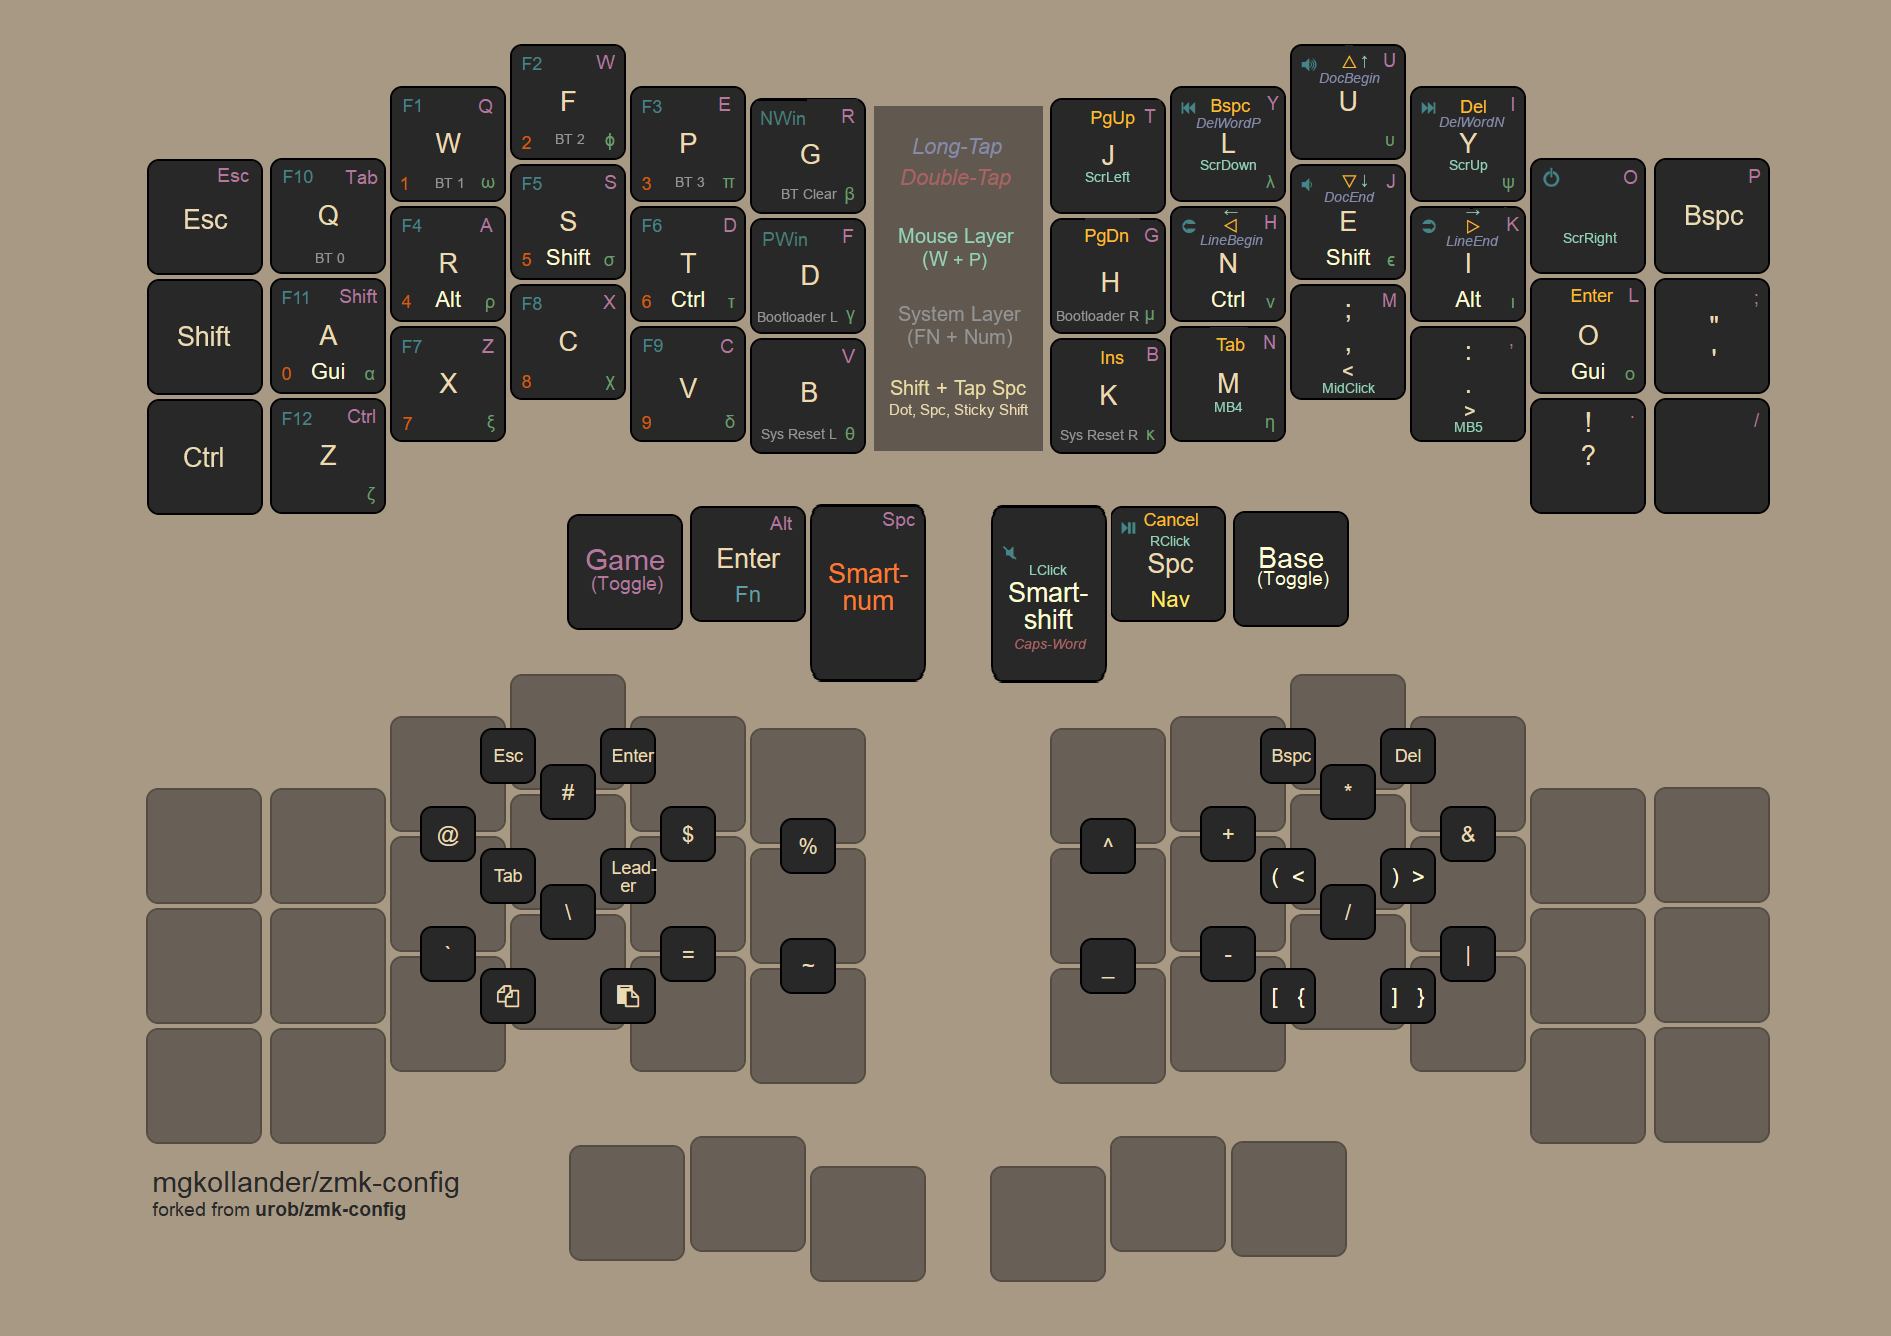
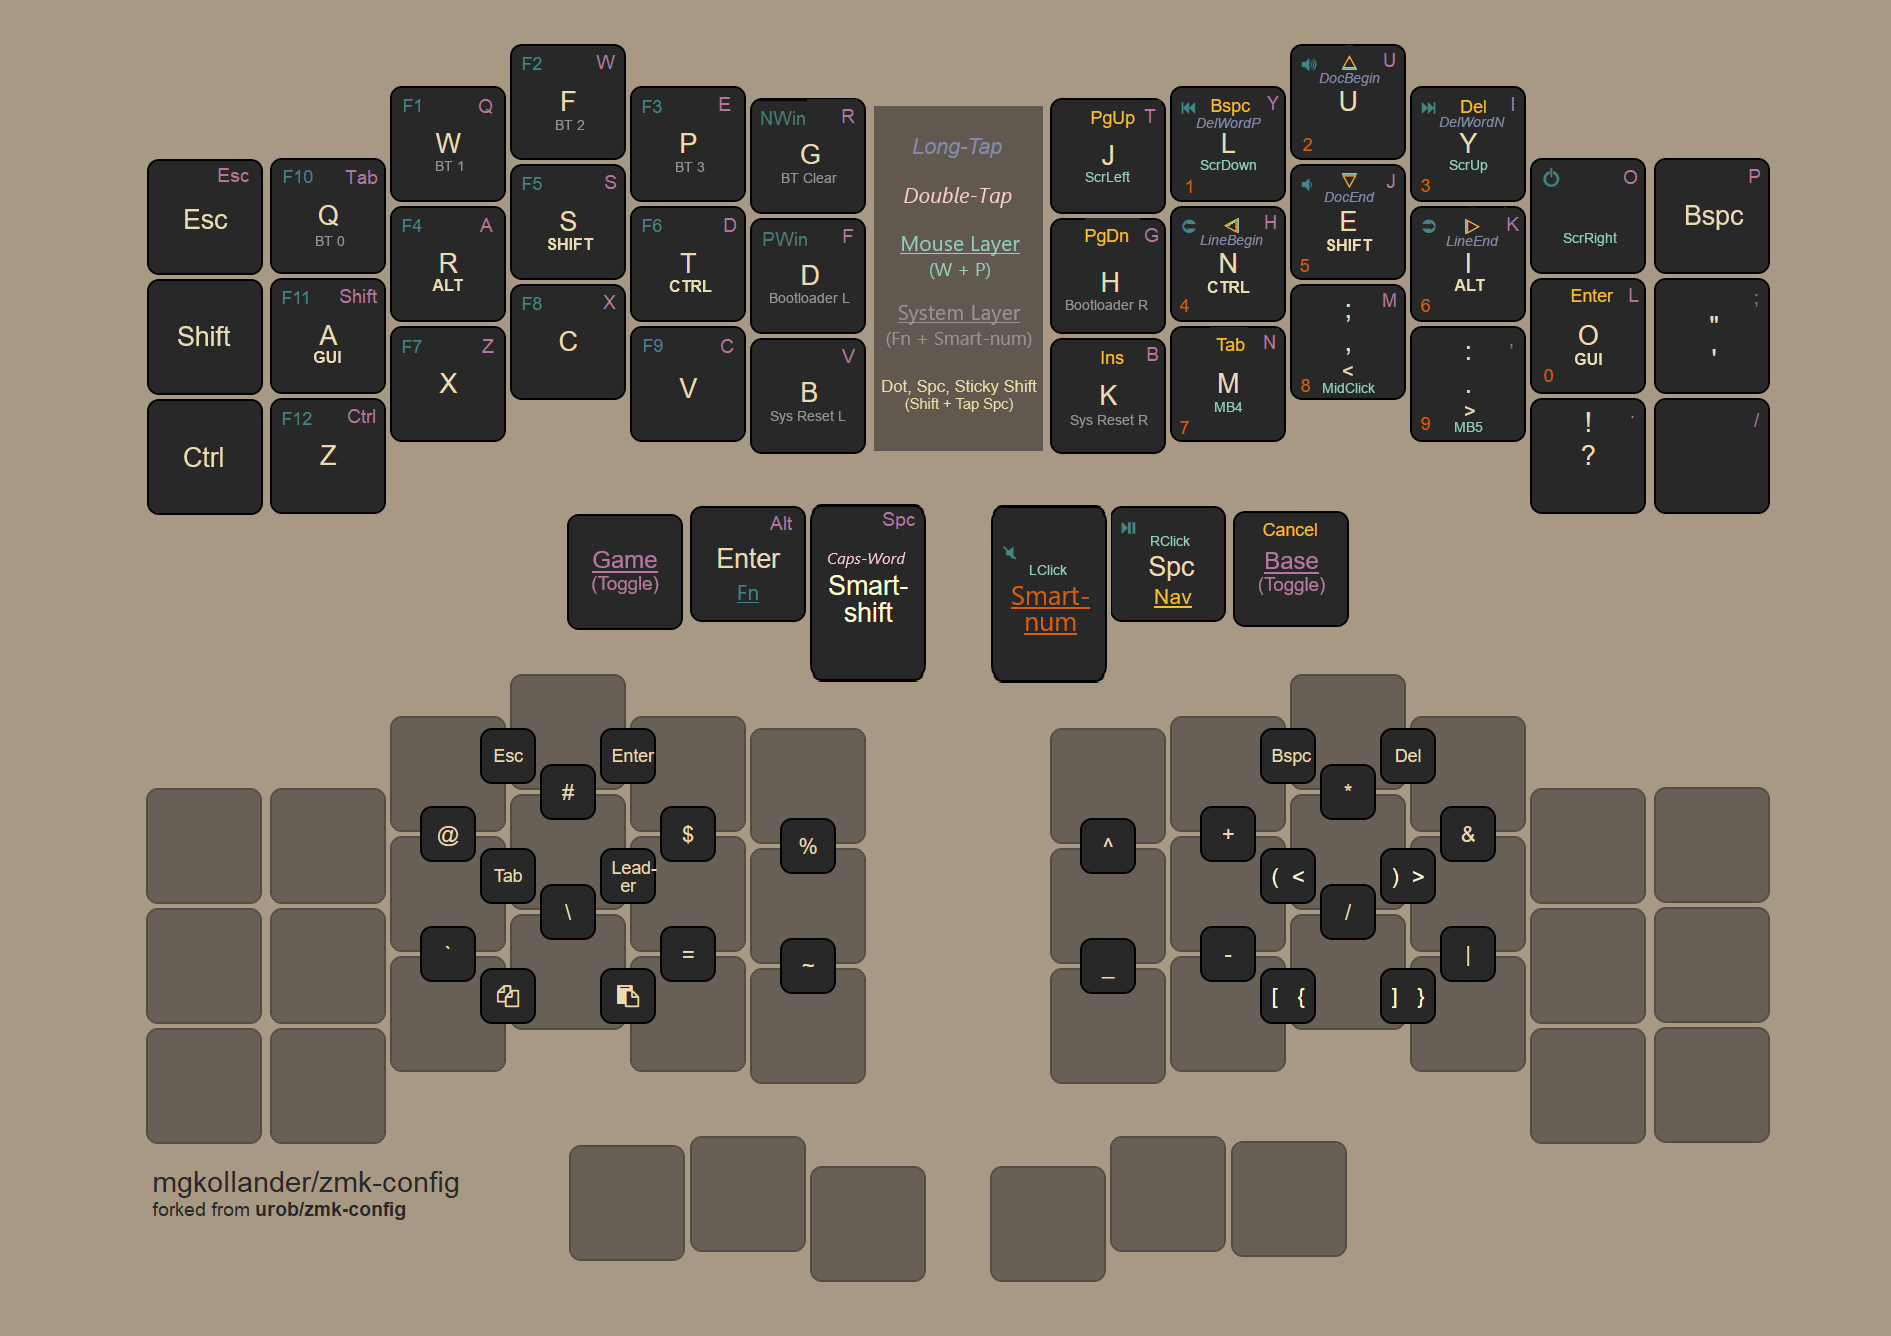
Major adjustments
- Number pad moved to right hand
- Smart-shift and Smart-num swapped
- Keymap declutter and improvements
- Moved cancel key
- Base layer can now only be toggled from the game layer
- Removed leader key sequences

diff --git a/readme.md b/readme.md
@@ -1,16 +1,12 @@
 # urob's zmk-config (mgkollander edition)
 
-This [ZMK firmware](https://github.com/zmkfirmware/zmk/) configuration was forked from [urob's fantastic zmk-config](https://github.com/urob/zmk-config) and consists of a 42-keys layout designed for the Corne. It uses the [Colemak](https://colemak.com/) keyboard layout, but can be toggled to a modified QWERTY layout for playing games with WASD movement. It is my daily driver for general typing, programming, navigation, and gaming.
+This [ZMK firmware](https://github.com/zmkfirmware/zmk/) configuration was forked from [urob's zmk-config](https://github.com/urob/zmk-config) and consists of a 42-keys layout designed for the Corne. It uses the [Colemak](https://colemak.com/) keyboard layout, but can be toggled to a modified QWERTY layout for playing games with WASD movement. It is my daily driver for general typing, programming, navigation, and gaming.
 
 ### ⚠ <ins>Note</ins>
 
 The description below is a very slight variation of urob's README, edited for my own personal use. Any use of first-person language is from urob's perspective and not my original work.
 
 <br />
-
-**Todo**:
-- Remove unicode leader key sequences (leave leader key for future use)
-- Bring back unicode layer toggle
 
 ⌨ **Keymap Image Status**: Up to date!  
 
@@ -23,7 +19,7 @@ The description below is a very slight variation of urob's README, edited for my
 - ["Timeless" homerow mods](#timeless-homerow-mods)
 - Combos replace symbol layer
 - Smart numbers and mouse layers auto-toggle off
-- Unicode math and international leader key sequences
+- Leader key template ready to be customized
   [zmk-helpers](https://github.com/urob/zmk-helpers)
 - Arrow-cluster doubles as <kbd>home</kbd>, <kbd>end</kbd>, <kbd>begin/end of
   document</kbd> on long-press
@@ -97,7 +93,7 @@ any other key automatically deactivates the layer.
 
 ##### Capsword
 
-My right thumb triggers three variations of shift: Tapping yields sticky-shift
+My left thumb triggers three variations of shift: Tapping yields sticky-shift
 (used to capitalize alphas), holding activates a regular shift, and
 double-tapping (or equivalently shift + tap) activates ZMK's Caps-word behavior.
 
@@ -130,7 +126,7 @@ now I am using it for a variety of Unicode math symbols and international
 characters. I am planning to extend the use to various firmware interactions
 once I figure out the technical details.  
 
-See [zmk-helpers](https://github.com/urob/zmk-helpers?tab=readme-ov-file#unicode-characters-and-language-collection) for instructions on how to set up unicode and international characters for the leader key. The symbols will not work otherwise!
+NOTE: See [zmk-helpers](https://github.com/urob/zmk-helpers?tab=readme-ov-file#unicode-characters-and-language-collection) for instructions on how to set up unicode and international characters for the leader key. As of right now, the leader key has no sequences implemented.
 
 ## Issues and workarounds
 
